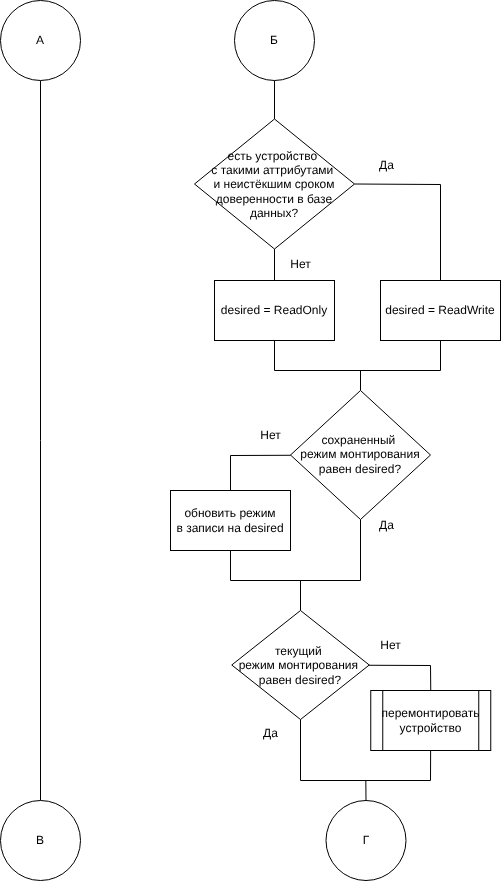
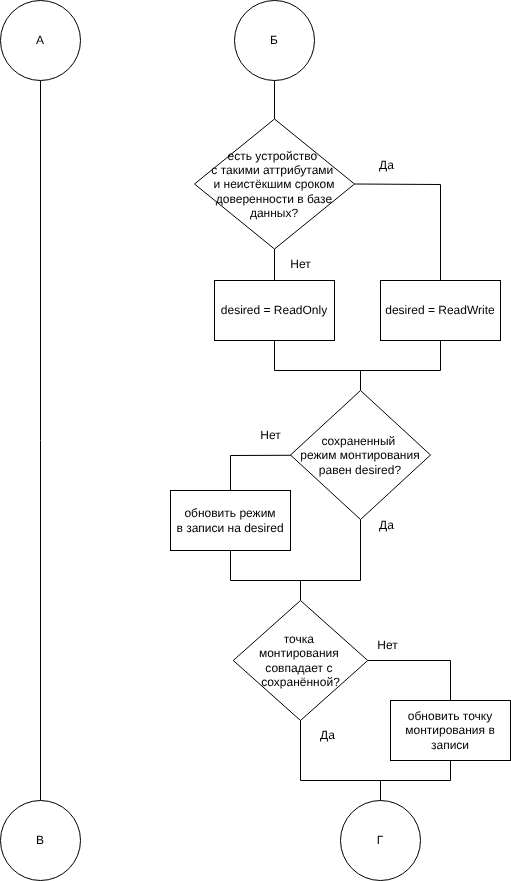
goida....

diff --git a/Notes/src/core/MountRecoveryService.hpp b/Notes/src/core/MountRecoveryService.hpp
@@ -37,8 +37,13 @@ public:
             resolver.getMountPoint(devNode);
 
         if (!mountPoint) {
-            auto newrec = manager.mount(devNode);
-            if (newrec) registry.recreate(*newrec);
+            try {
+                if (auto newrec = manager.mount(devNode))
+                    registry.recreate(*newrec);
+            }
+            catch(const MountError& e) {
+                mylog->error("Failed mount for {}", devNode);
+            }
             return;
         }
 
@@ -47,7 +52,7 @@ public:
 
         bool some_changes = false;
 
-        if (!info) return;
+        if (!info || !md) return;
 
         if (*info != rec.info) {
             rec.info = *info;
@@ -64,13 +69,18 @@ public:
             some_changes = true;
         }
 
-        if (*md != desired) {
-            manager.remount(rec);
-        }
-
         if (*mountPoint != rec.mountPoint) {
             rec.mountPoint = *mountPoint;
             some_changes = true;
+        }
+
+        if (*md != desired) {
+            try {
+                manager.remount(rec);
+            }
+            catch(const MountError& e) {
+                mylog->error("Failed remount for {}", rec.devNode);
+            }
         }
 
         if (some_changes) {
@@ -90,25 +100,33 @@ public:
             devNodes.begin(),
             devNodes.end());
 
-        // удаляем отсутствующие устройства
+        // удаление отсутствующих устройств
         for (const auto& reg : regs) {
             if (!devSet.contains(reg.devNode)) {
-                registry.removeByDevNode(reg.devNode);
-                manager.unmount(reg.mountPoint);
+                try {
+                    registry.removeByDevNode(reg.devNode);
+                    manager.unmount(reg.mountPoint);
+                }
+                catch(const UnMountError& e) {
+                    mylog->error("Failed unmount for {}", reg.mountPoint);
+                }
             }
         }
 
-        // актуализируем существующие
-        // или создаём новые
+        // актуализизация существующих и создание новых
         for (const auto& node : devNodes) {
             auto it = regMap.find(node);
             if (it != regMap.end()) {
                 actualize(it->second);
             }
             else {
-                auto rec = manager.mount(node);
-                if (rec)
-                    registry.add(*rec);
+                try {
+                    if (auto rec = manager.mount(node))
+                        registry.add(*rec);
+                }
+                catch(const MountError& e) {
+                    mylog->error("Failed mount for {}", node);
+                }
             }
         }
     }

diff --git a/Notes/report/parts/07-add.tex b/Notes/report/parts/07-add.tex
@@ -1,6 +1,37 @@
 \chapter*{ПРИЛОЖЕНИЕ А}
 \addcontentsline{toc}{chapter}{ПРИЛОЖЕНИЕ А}
 
+Диск с рабочими материалами со следующей структурой папок:
+
+\begin{itemize}[label=---]
+    \item \texttt{report} --- каталог с РПЗ ВКР;
+    \item \texttt{app/} --- каталог с исходными кодами сервера:
+    \begin{itemize}[label=---]
+        \item \texttt{api-stubs} --- обработчики \texttt{HTTP} запросов;
+        \item \texttt{external} --- сторонние библиотеки;
+        \item \texttt{sql/schema} --- скрипты для создания таблиц базы данных;
+        \item \texttt{src} --- исходный код приложения;
+        \item \texttt{tests} --- тесты;
+        \item \texttt{CMakeLists.txt} --- сценарий сборки приложения;
+        \item \texttt{docker-compose.yml} --- конфигурационный файл Docker;
+        \item \texttt{Dockerfile.app} --- инструкции для создания образа контейнера приложения;
+        \item \texttt{Dockerfile.e2e} --- инструкции для создания образа контейнера для \texttt{e2e} тестов;
+        \item \texttt{Dockerfile.tests} --- инструкции для создания образа контейнера для \texttt{unit}- и интеграционных тестов.
+    \end{itemize}
+    \item \texttt{front/} --- каталог с исходными кодами клиента:
+    \begin{itemize}[label=---]
+        \item \texttt{src} --- исходный код клиента;
+        \item \texttt{index.html} --- основная вёрстка приложения;
+        \item \texttt{package.json} --- файл зависимостей;
+        \item \texttt{tsconfig.json} --- конфигурация \texttt{TypeScript};
+        \item \texttt{vite.confg.ts} --- конфигурация сборщика \texttt{Vite};
+        \item \texttt{vitest.config.ts} --- конфигурация тестов.
+    \end{itemize}
+\end{itemize}
+
+\chapter*{ПРИЛОЖЕНИЕ Б}
+\addcontentsline{toc}{chapter}{ПРИЛОЖЕНИЕ Б}
+
 Презентация к выпускной квалификационной работе на тему 
 <<Программно-алгоритмический комплекс управления доступом ко внешним запоминающим устройствам>>
 состоит из 15 слайдов.

diff --git a/Notes/report/parts/05-research.tex b/Notes/report/parts/05-research.tex
@@ -6,8 +6,12 @@
 \section{Постановка исследования}
 
 Предметом исследования является время выполнения алгоритма обработки 
-узлов устройств и записей о точках монтирования при инициализации приложения 
-при различных начальных условиях. В первой части исследования оценивается время.
+специальных файлов устройств и записей о точках монтирования при инициализации приложения 
+при различных начальных условиях. В первой части исследования устанавливается взаимосвязь
+между временем выполнения и количеством исходных актуальных записей о монтировании.
+Вторая часть исследования направлена на влияние на время выполнения количества записей о 
+монтировании, которые необходимо обновить. Третья часть исследования устанавливает
+взаимосвязь между временем выполнения и количеством необходимых вызовов перемонтирования.
 
 \section{Технические характеристики}
 
@@ -42,8 +46,7 @@
 
 \begin{table}[H]
     \caption{Результаты первой части исследования}
-    \centering
-    \begin{tabular}{|p{5cm}|p{5cm}|}
+    \begin{tabular}{|p{10cm}|p{5cm}|}
     \hline
 
     \textbf{Количество записей о монтировании}
@@ -64,8 +67,9 @@
     \label{tab:res_1}
 \end{table}
 
-По табличным значениям был построен график зависимости времени выполнения алгоритма обработки узлов устройств и 
-записей о точках монтирования от количества исходных записей о точках монтирования, представленный на рисунке~\ref{img:research_1}.
+По табличным значениям был построен график зависимости времени выполнения алгоритма 
+обработки специальных файлов устройств и записей о точках монтирования от количества 
+исходных записей о точках монтирования, представленный на рисунке~\ref{img:research_1}.
 
 \includeimage
     {research_1}
@@ -75,7 +79,8 @@
     {График по результатам первой части исследования}
 
 Время выполнения алгоритма практически линейно зависит от количества записей. При наличии всех 
-записей о монтировании время выполнения уменьшается примерно в два раза относительно состояния отсутствия записей.
+записей о монтировании время выполнения уменьшается примерно в два раза относительно состояния отсутствия записей,
+так как отсутствует необходимость в монтировании и записи.
 
 \subsection{План второй части исследования}
 
@@ -91,8 +96,7 @@
 
 \begin{table}[H]
     \caption{Результаты второй части исследования}
-    \centering
-    \begin{tabular}{|p{7cm}|p{5cm}|}
+    \begin{tabular}{|p{10cm}|p{5cm}|}
     \hline
 
     \textbf{Количество недостоверных записей}
@@ -142,8 +146,7 @@
 
 \begin{table}[H]
     \caption{Результаты третьей части исследования}
-    \centering
-    \begin{tabular}{|p{7cm}|p{5cm}|}
+    \begin{tabular}{|p{10cm}|p{5cm}|}
     \hline
 
     \textbf{Количество устройств, смонтированных в режиме \texttt{ReadWrite}}

diff --git a/Notes/src/core/DeviceControlService.hpp b/Notes/src/core/DeviceControlService.hpp
@@ -4,6 +4,7 @@
 #include "DevLogger.hpp"
 #include "MountRegistry.hpp"
 #include "MountService.hpp"
+#include "IDeviceResolver.hpp"
 #include "DeviceEventNotifier.hpp"
 
 class DeviceControlService {
@@ -11,16 +12,19 @@ private:
     MountRegistryManager& mountRegistry_;
     MountService& mountManager_;
     DeviceEventNotifier& notifier_;
+    IDeviceResolver& resolver_;
 
 public:
     DeviceControlService(
         MountRegistryManager& mountRegistry,
         MountService& mountManager,
-        DeviceEventNotifier& notifier
+        DeviceEventNotifier& notifier,
+        IDeviceResolver& resolver
     ) :
         mountRegistry_(mountRegistry),
         mountManager_(mountManager),
-        notifier_(notifier)
+        notifier_(notifier),
+        resolver_(resolver)
     {}
 
     void handleEvent(const DeviceEvent& event)
@@ -34,7 +38,7 @@ public:
                 notifier_.notifyInsert(*record);
             }
             else if (event.type == EventType::REMOVE) {
-                if (auto mountPoint = mountRegistry_.getMountPointByDevNode(event.devNode)) {
+                if (auto mountPoint = resolver_.getMountPoint(event.devNode)) {
                     mountManager_.unmount(*mountPoint);
                     notifier_.notifyRemove(*mountPoint);
                     mountRegistry_.removeByDevNode(event.devNode);
@@ -44,11 +48,6 @@ public:
                 }
             }
         } catch (const std::exception& ex) {
-            mountRegistry_.removeByDevNode(event.devNode);
-            
-            if (auto mountPoint = mountRegistry_.getMountPointByDevNode(event.devNode))
-                mountManager_.unmount(*mountPoint);
-
             mylog->error(
                 "Failed to handle event for {}: {}",
                 event.devNode,

diff --git a/Notes/src/core/UdevDeviceResolver.hpp b/Notes/src/core/UdevDeviceResolver.hpp
@@ -97,11 +97,9 @@ public:
             udev_unref(udev);
             return result;
         }
-        // block devices
         udev_enumerate_add_match_subsystem(
             enumerate,
             "block");
-        // только разделы
         udev_enumerate_add_match_property(
             enumerate,
             "DEVTYPE",
@@ -190,19 +188,11 @@ public:
         char* value = nullptr;
         size_t size = 0;
         std::optional<MODE> result;
-        if (mnt_optstr_get_option(
-                opts,
-                "rw",
-                &value,
-                &size) == 0)
+        if (mnt_optstr_get_option(opts, "rw", &value, &size) == 0)
         {
             result = MODE::RW;
         }
-        else if (mnt_optstr_get_option(
-                    opts,
-                    "ro",
-                    &value,
-                    &size) == 0)
+        else if (mnt_optstr_get_option(opts, "ro", &value, &size) == 0)
         {
             result = MODE::RO;
         }

diff --git a/Notes/report/parts/00-referat.tex b/Notes/report/parts/00-referat.tex
@@ -1,12 +1,12 @@
 \chapter*{РЕФЕРАТ}
 \addcontentsline{toc}{chapter}{РЕФЕРАТ}
 
-Расчётно-пояснительная записка содержит 61 страницу, 21 иллюстраций, 7 таблиц, 36 источников, 1 приложение.
+Расчётно-пояснительная записка содержит 60 страниц, 21 иллюстрацию, 7 таблиц, 41 источник, 2 приложения.
 
-Ключевые слова: USB, контроль доступа, доверенные устройства, C++, утечки данных, монтирование.
+Ключевые слова: USB, контроль доступа, доверенные устройства, C++, встраиваемые СУБД, монтирование.
 
 Целью данной дипломной работы является разработка и реализация программно-алгоритмического
-комплекса, уменьшающего вероятность несанкционированного копирования информации на сторонние носители.
-Результатами работы является клиент-серверное приложение, где серверная часть выполнена на языке C++,
-а клиентская на языке TypeScript и фреймворке Vue, а также исследование алгоритма актуализации записей 
-о монтировании при различных сценариях.
+комплекса, уменьшающего вероятность несанкционированного копирования информации на сторонние USB-носители.
+Результатом работы является клиент-серверное приложение, где серверная часть выполнена на языке C++,
+а клиентская на языке TypeScript и фреймворке Vue. Приложение использует встраиваемую СУБД SQlite. Также 
+было проведено исследование алгоритма актуализации записей о монтировании при различных сценариях.

diff --git a/Notes/report/parts/06-conclusion.tex b/Notes/report/parts/06-conclusion.tex
@@ -1,17 +1,20 @@
 \chapter*{ЗАКЛЮЧЕНИЕ}
 \addcontentsline{toc}{chapter}{ЗАКЛЮЧЕНИЕ}
 
-Таким образом, цель дипломной работы была достигнута --- разработан и реализован программно-
-алгоритмический комплекс, снижающий риски использования внешних запоминающих устройств.
+Таким образом, цель дипломной работы была достигнута --- разработан и реализован программно-алгоритмический
+комплекс, снижающий вероятность несанкционированного копирования информации посредством управления доступом к \texttt{USB}-носителям.
 
 Выполнены все поставленные задачи:
 \begin{itemize}[label=---]
-    \item проанализированы существующие решения;
-    \item формализованы требования к разрабатываемому комплексу;
+    \item проанализированы существующие решения в сфере управления доступом ко внешним запоминающим устройствам;
+    \item формализованы требования к разрабатываемому комплексу с использованием диаграммы прецедентов;
     \item разработана архитектуру программно-алгоритмического комплекса;
+    \item описаны компоненты и их взаимодействие;
+    \item описаны ключевые структуры данных;
     \item обоснован выбор средств программной реализации;
     \item разработано программное обеспечение комплекса;
     \item проведено тестирования комплекса;
+    \item описано взаимодействие пользователя с программным обеспечением;
     \item исследованы характеристики разработанного программного обеспечения.
 \end{itemize}
 

diff --git a/Notes/tests/integration/test_real_mount.cpp b/Notes/tests/integration/test_real_mount.cpp
@@ -55,7 +55,8 @@ protected:
         svc = std::make_unique<DeviceControlService>(
             *registry,
             *mntser,
-            *notifier
+            *notifier,
+            *resolver
         );
 
         info = std::make_unique<DeviceInfo>(

diff --git a/Notes/report/parts/01-introd.tex b/Notes/report/parts/01-introd.tex
@@ -16,7 +16,7 @@
 и аппаратно-программных средств защиты от несанкционированного доступа (СЗИ НСД).
 
 Цель данной работы --- разработка и реализация программно-алгоритмического
-комплекса, снижающего вероятность утечки информации посредством управления доступом к \texttt{USB}-носителям. 
+комплекса, снижающего вероятность несанкционированного копирования информации посредством управления доступом к \texttt{USB}-носителям. 
 
 Для достижения поставленной цели необходимо решить следующие задачи:
 \begin{itemize}[label=---]

diff --git a/Notes/report/parts/03-construct.tex b/Notes/report/parts/03-construct.tex
@@ -185,7 +185,7 @@
     \item \texttt{DeviceInfo}:
     \begin{enumerate}
         \item поля \texttt{vendorId} и \texttt{productId} должны содержать только цифры или строчные или 
-        заглавные латинские буквы, их длина должна равняться 4-ём символам, они не могут быть пустыми;
+        заглавные латинские буквы, их длина должна равняться 4-ём символам~\cite{USBstandart}, они не могут быть пустыми;
         \item поле \texttt{serial} не может быть пустым;
         \item комбинация полей \texttt{vendorId}, \texttt{productId}, \texttt{serial} должна быть уникальной.
     \end{enumerate}

diff --git a/Notes/report/parts/04-techno.tex b/Notes/report/parts/04-techno.tex
@@ -214,7 +214,7 @@
     \item \texttt{api-stubs/api/} --- содержит в себе обработчики \texttt{HTTP} запросов;
     \item \texttt{external/} --- директория для сторонних библиотек. Содержит \texttt{ixwebsocket} 
     (библиотека для \texttt{WebSocket}-соединений) и \texttt{spdlog} (библиотека для журналирования);
-    \item \texttt{sql/schema} --- хранит скрипты для для создания таблицы базы данных;
+    \item \texttt{sql/schema} --- хранит скрипты для создания таблиц базы данных;
     \item \texttt{src/} --- исходный код приложения:
     \begin{itemize}[label=---]
         \item \texttt{commands/} --- содержит классы команд:

diff --git a/Notes/src/main.cpp b/Notes/src/main.cpp
@@ -39,7 +39,7 @@ public:
         : db(Config::getDBPath()),
           ws(Config::getWebSocketPort()),
           notifier(ws),
-          service(facade.registry(), facade.mounts(), notifier),
+          service(facade.registry(), facade.mounts(), notifier, resolver),
           loop(queue, service),
           watcher(queue),
           facade(db, linms, resolver),